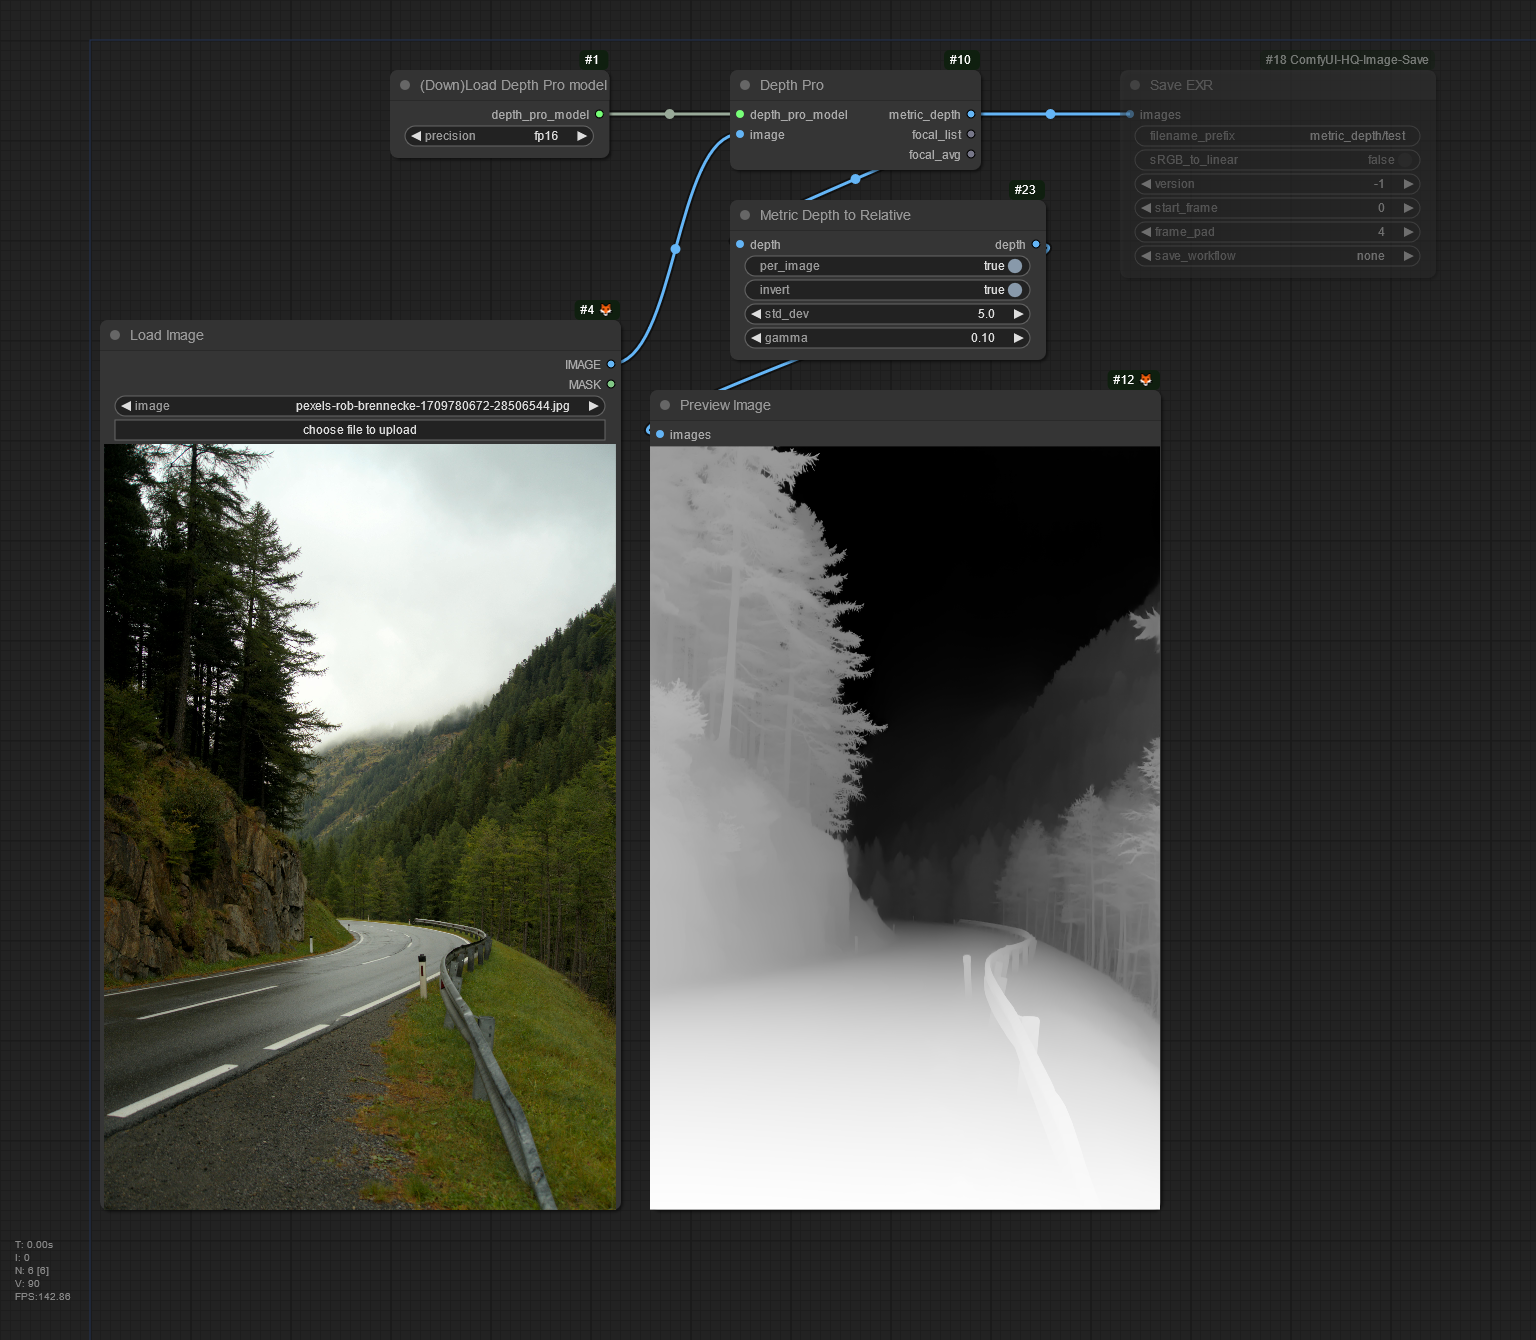
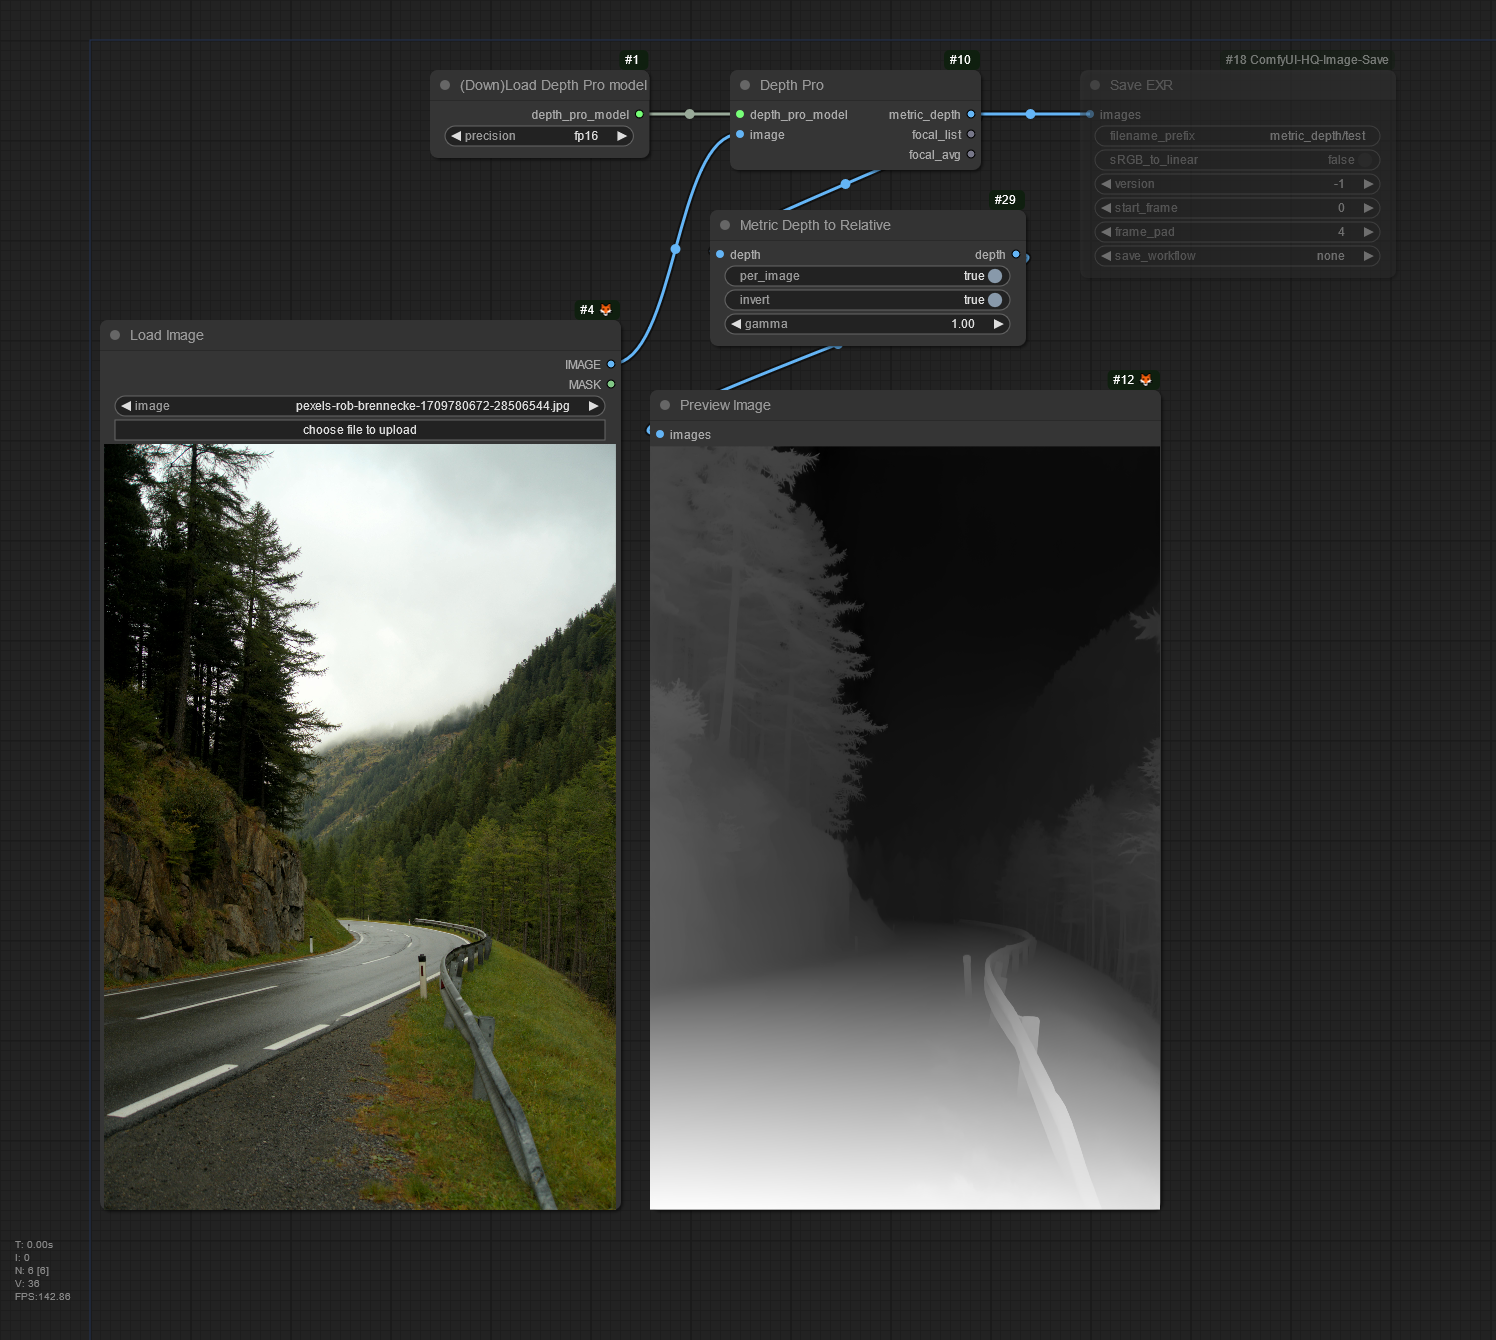
fixed the relative depth conversion, don't feed the math gremlins after midnight

diff --git a/nodes.py b/nodes.py
@@ -101,9 +101,8 @@ class MetricDepthToRelative:
         return {
             "required": {
                 "depth": ("IMAGE",),
-                "per_image": ("BOOLEAN", {"default": False,}),
+                "per_image": ("BOOLEAN", {"default": True,}),
                 "invert": ("BOOLEAN", {"default": True,}),
-                "std_dev": ("FLOAT", {"default": 5.0, "min": 0.1, "max": 100.0, "step": 0.1,  "round": 0.1}),
                 "gamma": ("FLOAT", {"default": 1.0, "min": 0.01, "max": 100, "step": 0.01}),
                 },
             }
@@ -113,22 +112,18 @@ class MetricDepthToRelative:
     FUNCTION = "convert_depth"
     CATEGORY = "Depth-Pro"
     
-    def convert_depth(self, depth, per_image, invert, std_dev, gamma):
-        relative_depth = depth.detach().clone()
+    def convert_depth(self, depth, per_image, invert, gamma):
+        relative_depth = 1 / (1 + depth.detach().clone())
         
         if per_image:
             for i in range(relative_depth.size(0)):
-                std, mean = torch.std_mean(relative_depth[i], dim=None)
-                relative_depth[i] = torch.clamp(relative_depth[i], min = 0, max = std * std_dev + mean)
                 relative_depth[i] = relative_depth[i] - relative_depth[i].min()
                 relative_depth[i] = relative_depth[i] / relative_depth[i].max()
         else:
-            std, mean = torch.std_mean(relative_depth, dim=None)
-            relative_depth = torch.clamp(relative_depth, min = 0, max = std * std_dev + mean)
             relative_depth = relative_depth - relative_depth.min()
             relative_depth = relative_depth / relative_depth.max()
         
-        if invert:
+        if not invert:
             relative_depth = 1 - relative_depth
         
         if gamma != 1:
@@ -137,14 +132,33 @@ class MetricDepthToRelative:
         return (relative_depth,)
 
 
+class MetricDepthToInverse:
+    @classmethod
+    def INPUT_TYPES(s):
+        return {
+            "required": {
+                "depth": ("IMAGE",),
+                },
+            }
+    
+    RETURN_TYPES = ("IMAGE",)
+    RETURN_NAMES = ("depth",)
+    FUNCTION = "convert_depth"
+    CATEGORY = "Depth-Pro"
+    
+    def convert_depth(self, depth):
+        return (1 / (1 + depth.detach().clone()), )
+
 NODE_CLASS_MAPPINGS = {
     "LoadDepthPro": LoadDepthPro,
     "DepthPro": DepthPro,
     "MetricDepthToRelative": MetricDepthToRelative,
+    "MetricDepthToInverse": MetricDepthToInverse,
     }
 
 NODE_DISPLAY_NAME_MAPPINGS = {
     "LoadDepthPro": "(Down)Load Depth Pro model",
     "DepthPro": "Depth Pro",
     "MetricDepthToRelative": "Metric Depth to Relative",
+    "MetricDepthToInverse": "Metric Depth to Inverse",
     }

diff --git a/README.md b/README.md
@@ -6,7 +6,7 @@ Based on https://github.com/apple/ml-depth-pro
 
 The raw output of the depth model is metric depth (aka, distance from camera in meters) which may have values up in the hundreds or thousands for far away objects. This is great for projection to 3d, and you can use the focal length estimate to make a camera (focal_mm = focal_px * sensor_mm / sensor_px)
 
-In order to convert metric depth to relative depth, like what's needed for controlnet, the depth has to be remapped into the 0 to 1 range, which seems simple enough but is actually quite subjective. Try adjusting the `std_dev` (rejects extreme outlier values) and `gamma` (an exponent to bias the image brighter or darker) depending on the image or video.
+In order to convert metric depth to relative depth, like what's needed for controlnet, the depth has to be remapped into the 0 to 1 range, which is handled by a separate node. The defaults should be good for most uses, but you can invert it and/or use `gamma` to bias it brighter or darker.
 
 If you get errors about "vit_large_patch14_dinov2" make sure timm is up to date (tested with 0.9.16 and 1.0.9)
 
